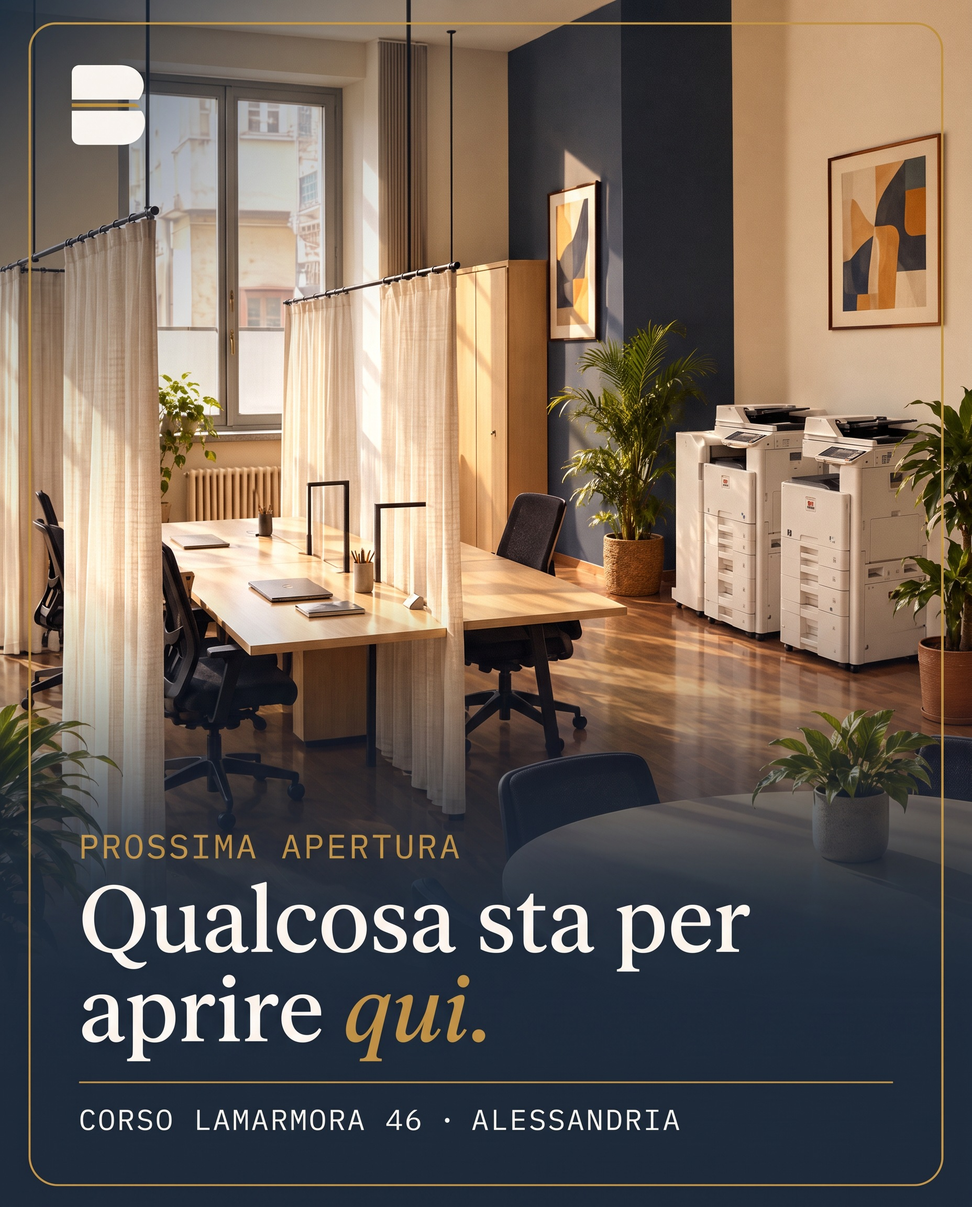
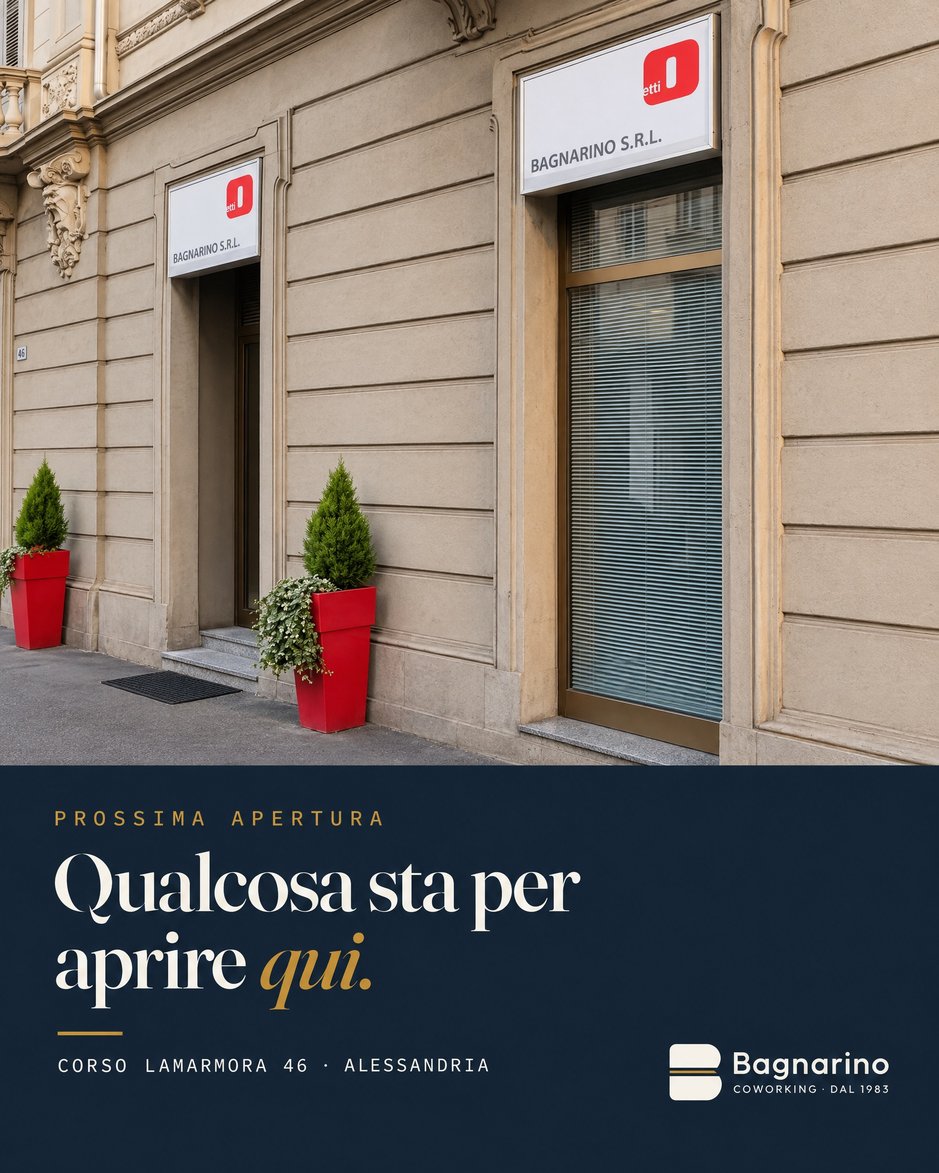
Teaser Instagram con GPT Image 2.5: esterno reale con insegna, scrivania, foto sala originale, font del sito
Claude-Session: https://claude.ai/code/session_012o7Bs8f8VwiskDeufoXhy8

diff --git a/bagnarino/teaser/didascalie.md b/bagnarino/teaser/didascalie.md
@@ -1,7 +1,7 @@
 # Bagnarino Coworking — Teaser apertura
 
-Post e storie generati interamente con Higgsfield (Nano Banana Pro), testo e logo inclusi, nessun ritocco in HTML.
-Riferimenti usati: logo Bagnarino + sfondi in `sfondi/` (sala con separè, scrivania, tenda). Niente facciata esterna, niente prezzi.
+Post e storie generati interamente con Higgsfield (GPT Image 2.5), testo e logo inclusi.
+Riferimenti: foglio di stile con i font del sito (Fraunces, Hanken Grotesk, IBM Plex Mono) e logo, foto reale dell'esterno con l'insegna originale, foto reale della sala (non modificata). Niente separè, niente tende, niente prezzi.
 
 Ordine di pubblicazione: un post ogni 1–2 giorni, dal 4 all'1, così nella griglia del profilo si leggono in ordine.
 Hashtag: #Alessandria #coworkingAlessandria #BagnarinoCoworking #smartworking #Olivetti
@@ -18,7 +18,7 @@ Postazioni separate e silenziose, nel centro di Alessandria.
 
 ## Post 3 — `post-3.jpg`
 Il tuo posto, pronto ogni mattina.
-Postazioni separate, wi-fi in fibra, stampe e scansioni. Prenoti online in un minuto.
+Wi-fi in fibra, stampe e scansioni, prenotazione online in un minuto.
 Tutti i dettagli all'apertura.
 
 ## Post 4 — `post-4.jpg`
@@ -26,8 +26,8 @@ La data di apertura? Top secret, ancora per poco.
 La sveliamo nei prossimi giorni. Restate sintonizzati 👀
 
 ## Storie
-- `storia-1.jpg` — sticker Sondaggio: *Lavori da remoto ad Alessandria?* Sì / A volte.
+- `storia-1.jpg` (esterno, "Stiamo arrivando in corso Lamarmora 46") — sticker Posizione + sondaggio *Lavori da remoto ad Alessandria?* Sì / A volte.
 - `storia-2.jpg` — nello spazio vuoto in basso: sticker Quiz "Indovina la data", poi sticker Conto alla rovescia quando la data è confermata.
-- `storia-3.jpg` — sticker Link a bagnarinocoworking.it.
+- `storia-3.jpg` (scrivania, "Le luci sono quasi accese") — sticker Link a bagnarinocoworking.it sopra il tasto Seguici.
 
 Quando la data è confermata: nuovo post + storia "reveal" con la data scoperta.
